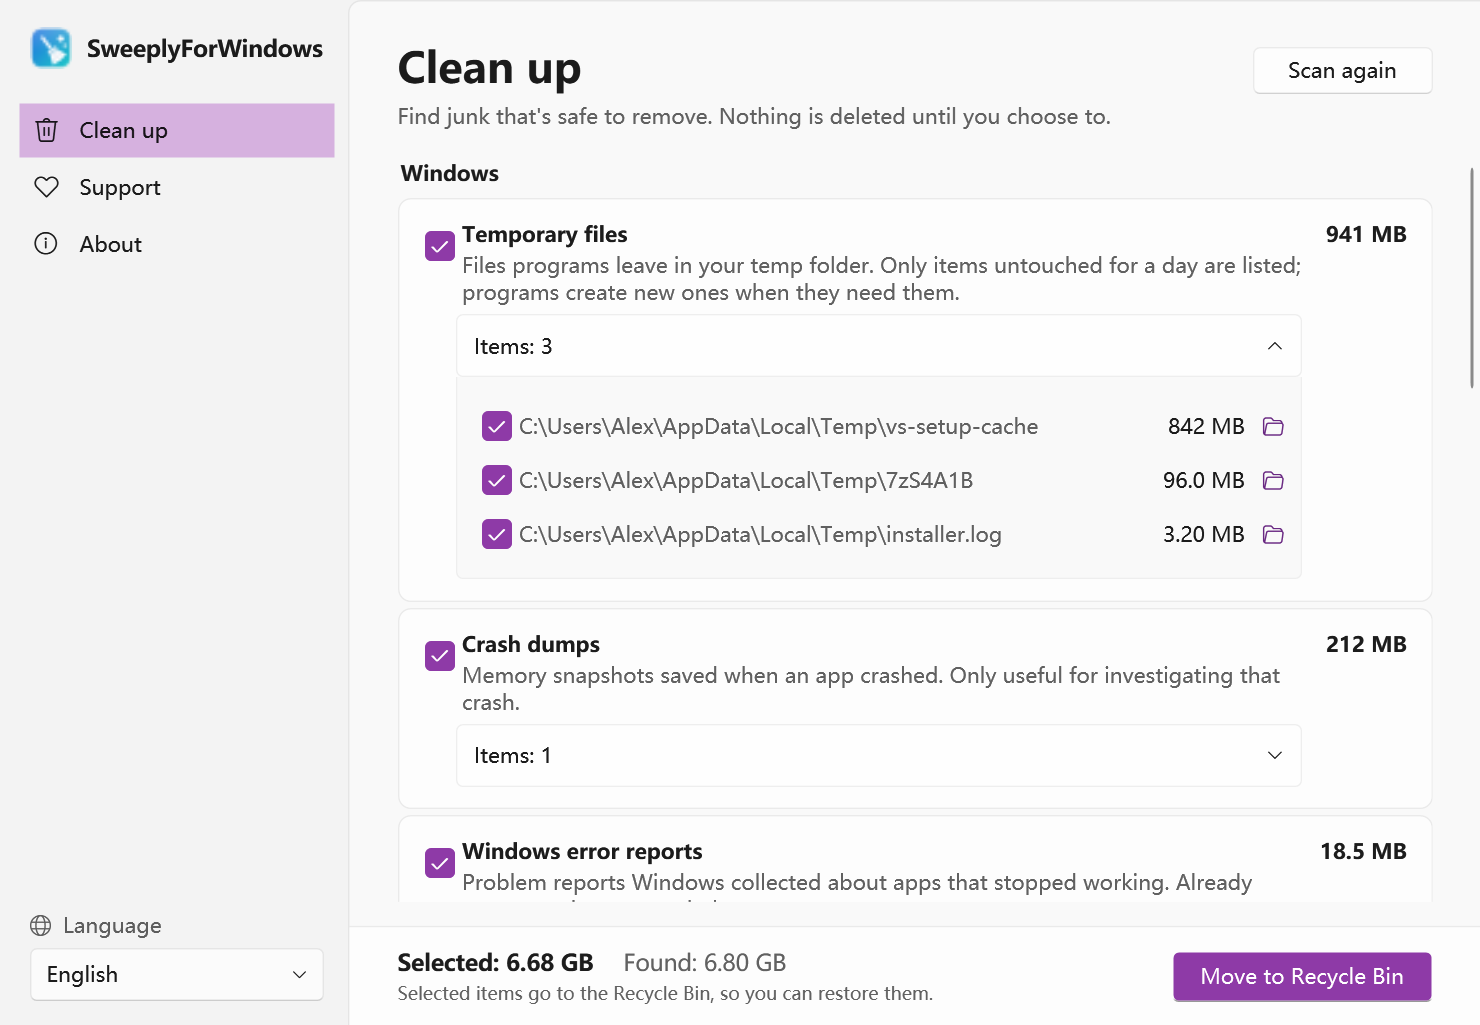
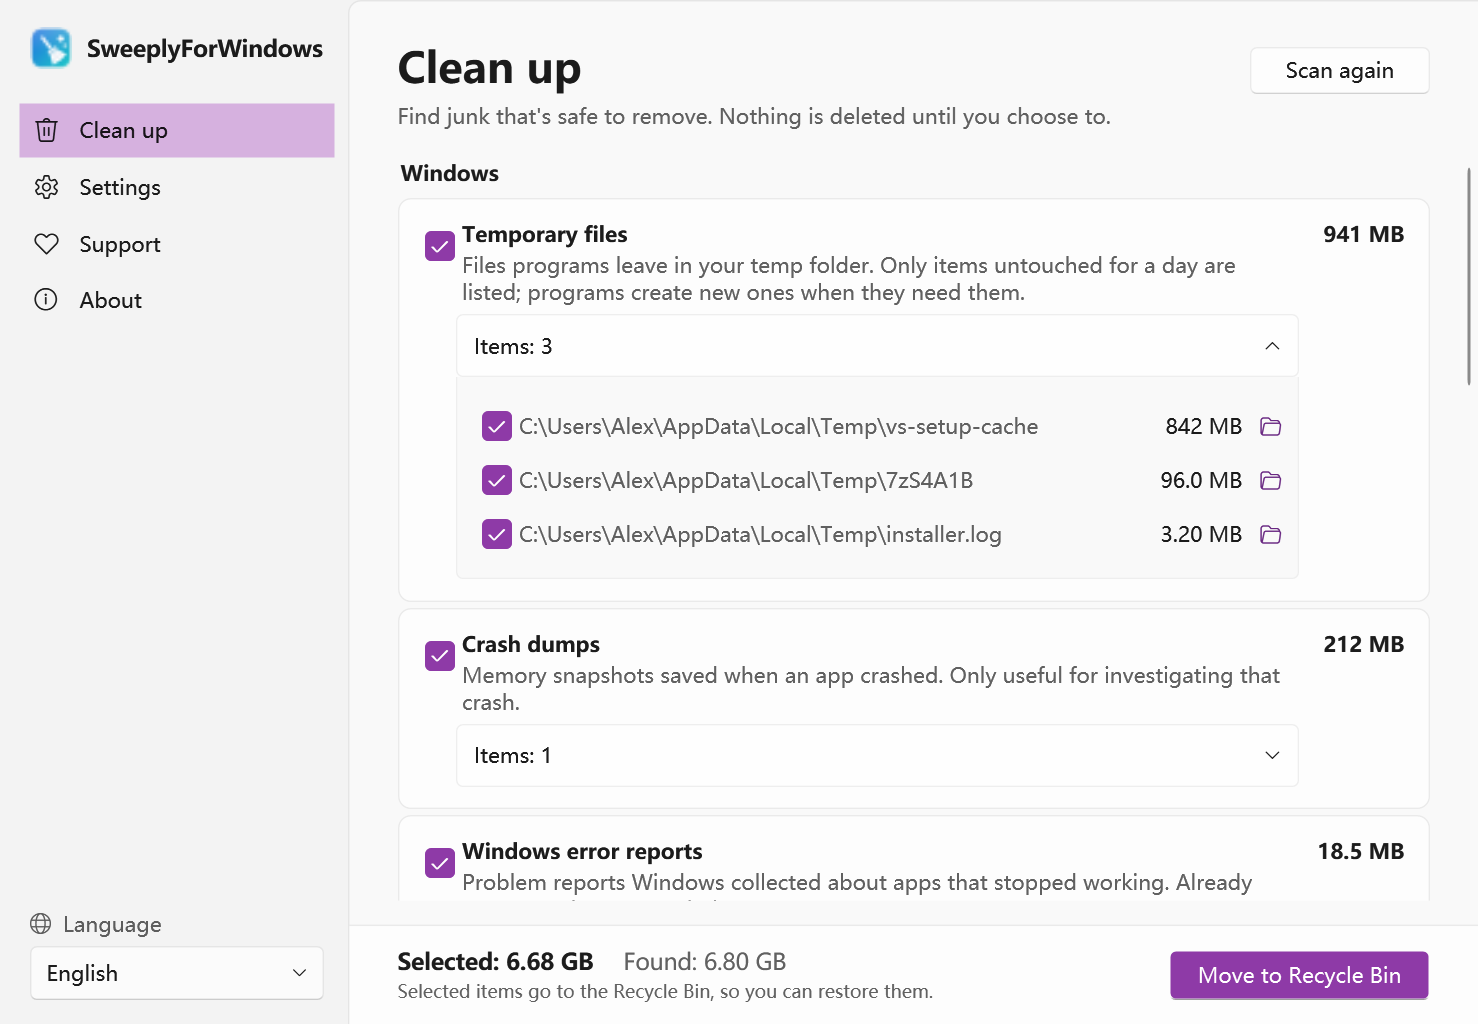
0.2.0: README for background mode and the activity monitor, fresh screenshots
Screenshots re-rendered with --snapshot (the sidebar now has Settings); new Settings page
and floating bar images.

diff --git a/README.md b/README.md
@@ -23,7 +23,8 @@ shows you exactly what they are, and never deletes anything until you choose to.
   <img src="docs/screenshots/clean-en-light.png" width="760" alt="SweeplyForWindows showing cleanup categories and their sizes">
 </p>
 
-> **Status: early preview (0.1).** Cleaning works; more categories and a system overview are coming.
+> **Status: preview (0.2).** Cleaning, background mode and the activity monitor work;
+> many more cleanup categories (including chat apps like WeChat) are coming next.
 
 ## What it finds
 
@@ -54,6 +55,27 @@ show it in File Explorer, or untick the ones you want to keep.
 - **Only this PC's own disks.** USB sticks and network drives are never touched.
 - **Browsers are left alone while they're open**, and files in use are skipped.
 - **Works offline.** No network requests, no analytics, no accounts.
+
+## Runs quietly in the background
+
+<p align="center">
+  <img src="docs/screenshots/settings-en-light.png" width="760" alt="Settings page with background and activity monitor options">
+</p>
+
+- **Stays in the notification area.** Closing the window keeps it there; right-click the icon to exit.
+  You can turn this off in Settings.
+- **Start with Windows** (off by default): starts as an icon only when you sign in.
+  Nothing is scanned or cleaned until you ask.
+- **Activity monitor**, every part optional:
+  - a live number on the icon: CPU usage, download or upload speed, or disk writes;
+  - download and upload speed, CPU usage and disk writes when you point at the icon;
+  - a small floating bar that stays on top of other windows. Drag it anywhere; right-click it to hide it.
+
+<p align="center">
+  <img src="docs/screenshots/monitor-bar.png" width="380" alt="Floating bar showing download, upload, CPU and disk writes">
+</p>
+
+The readings come from Windows itself (performance counters and network adapters) and never leave your PC.
 
 ## Made for Windows
 
